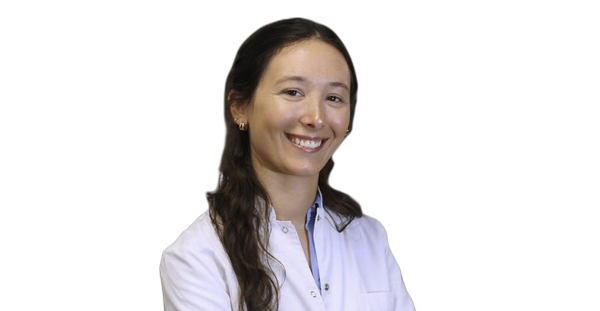
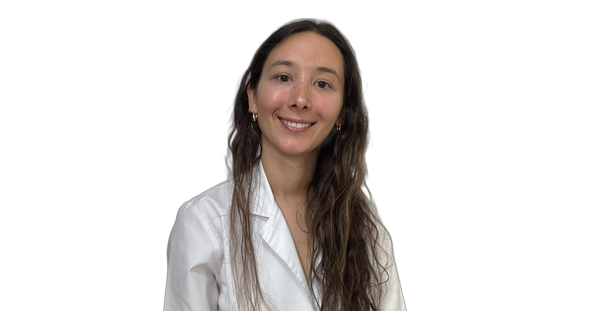
Linea rotativa 0351 570-7090 en todo el sitio (contacto, inicio, footers, notas y bios) + foto nueva Dra. Sudria + link a Google Maps bajo el mapa del inicio

Changed region(s): [[0.24, 0.0579, 0.69, 1.0]]

diff --git a/novedades/vacaciones-invierno-vista-de-los-chicos/index.html b/novedades/vacaciones-invierno-vista-de-los-chicos/index.html
@@ -163,6 +163,7 @@
     <footer class="footer"><div class="container footer-grid">
       <div><a class="brand footer-brand" href="../../index.html"><span class="brand-logo-frame"><img src="../../assets/ioc-logo-symbol.png" alt="" /></span><span class="brand-copy"><strong>Instituto Oftalmológico</strong><small>de Córdoba</small></span></a><p>Salud visual, estudios oftalmológicos y cirugía ocular en Nueva Córdoba.</p></div>
       <div><h2>Secciones</h2><a href="../../index.html">Inicio</a><a href="../../quienes-somos.html">Quiénes somos</a><a href="../../servicios.html">Servicios</a><a href="../../informacion.html">Información</a><a href="../../novedades.html">Novedades</a><a href="../../contacto.html">Contacto</a></div>
+      <div><h2>Contacto</h2><a href="https://wa.me/5493516662384" target="_blank" rel="noopener">WhatsApp</a><a href="https://www.instagram.com/ioc_oftalmologiacba/" target="_blank" rel="noopener">Instagram</a><a href="mailto:info@iocp.com.ar">info@iocp.com.ar</a><a href="tel:+543515707090">Tel. 0351 570-7090</a>
       <div><h2>Contacto</h2><a href="https://wa.me/5493516662384" target="_blank" rel="noopener">WhatsApp</a><a href="https://www.instagram.com/ioc_oftalmologiacba/" target="_blank" rel="noopener">Instagram</a><a href="mailto:info@iocp.com.ar">info@iocp.com.ar</a><a class="footer-review" href="https://search.google.com/local/writereview?placeid=ChIJY-UuEI6iMpQRd2V8UBE54po" target="_blank" rel="noopener">Reseñá en Google</a><span>Bv Chacabuco 879, Córdoba</span><span>7:30 – 19:30 hs · Lun a Vie</span><span>Guardia 24 hs: Sanatorio Allende</span></div>
     </div></footer>
     <a class="floating-whatsapp" href="https://wa.me/5493516662384?text=Hola%2C%20quiero%20coordinar%20un%20control%20oftalmol%C3%B3gico%20para%20mi%20hijo/a.%20Vengo%20de%20la%20nota%20de%20las%20vacaciones%20de%20invierno.%20Mi%20nombre%20es%20" data-whatsapp-direct="true" target="_blank" rel="noopener">Pedir turno</a>

diff --git a/novedades/ojo-seco-invierno/index.html b/novedades/ojo-seco-invierno/index.html
@@ -157,6 +157,7 @@
     <footer class="footer"><div class="container footer-grid">
       <div><a class="brand footer-brand" href="../../index.html"><span class="brand-logo-frame"><img src="../../assets/ioc-logo-symbol.png" alt="" /></span><span class="brand-copy"><strong>Instituto Oftalmológico</strong><small>de Córdoba</small></span></a><p>Salud visual, estudios oftalmológicos y cirugía ocular en Nueva Córdoba.</p></div>
       <div><h2>Secciones</h2><a href="../../index.html">Inicio</a><a href="../../quienes-somos.html">Quiénes somos</a><a href="../../servicios.html">Servicios</a><a href="../../informacion.html">Información</a><a href="../../novedades.html">Novedades</a><a href="../../contacto.html">Contacto</a></div>
+      <div><h2>Contacto</h2><a href="https://wa.me/5493516662384" target="_blank" rel="noopener">WhatsApp</a><a href="https://www.instagram.com/ioc_oftalmologiacba/" target="_blank" rel="noopener">Instagram</a><a href="mailto:info@iocp.com.ar">info@iocp.com.ar</a><a href="tel:+543515707090">Tel. 0351 570-7090</a>
       <div><h2>Contacto</h2><a href="https://wa.me/5493516662384" target="_blank" rel="noopener">WhatsApp</a><a href="https://www.instagram.com/ioc_oftalmologiacba/" target="_blank" rel="noopener">Instagram</a><a href="mailto:info@iocp.com.ar">info@iocp.com.ar</a><a class="footer-review" href="https://search.google.com/local/writereview?placeid=ChIJY-UuEI6iMpQRd2V8UBE54po" target="_blank" rel="noopener">Reseñá en Google</a><span>Bv Chacabuco 879, Córdoba</span><span>7:30 – 19:30 hs · Lun a Vie</span><span>Guardia 24 hs: Sanatorio Allende</span></div>
     </div></footer>
     <a class="floating-whatsapp" href="https://wa.me/5493516662384?text=Hola%2C%20quiero%20coordinar%20una%20consulta%20por%20ojo%20seco.%20Vengo%20de%20la%20nota%20del%20ojo%20seco%20en%20invierno.%20Mi%20nombre%20es%20" data-whatsapp-direct="true" target="_blank" rel="noopener">Pedir turno</a>

diff --git a/novedades/vuelta-a-clases-vista-de-los-chicos/index.html b/novedades/vuelta-a-clases-vista-de-los-chicos/index.html
@@ -161,6 +161,7 @@
     <footer class="footer"><div class="container footer-grid">
       <div><a class="brand footer-brand" href="../../index.html"><span class="brand-logo-frame"><img src="../../assets/ioc-logo-symbol.png" alt="" /></span><span class="brand-copy"><strong>Instituto Oftalmológico</strong><small>de Córdoba</small></span></a><p>Salud visual, estudios oftalmológicos y cirugía ocular en Nueva Córdoba.</p></div>
       <div><h2>Secciones</h2><a href="../../index.html">Inicio</a><a href="../../quienes-somos.html">Quiénes somos</a><a href="../../servicios.html">Servicios</a><a href="../../informacion.html">Información</a><a href="../../novedades.html">Novedades</a><a href="../../contacto.html">Contacto</a></div>
+      <div><h2>Contacto</h2><a href="https://wa.me/5493516662384" target="_blank" rel="noopener">WhatsApp</a><a href="https://www.instagram.com/ioc_oftalmologiacba/" target="_blank" rel="noopener">Instagram</a><a href="mailto:info@iocp.com.ar">info@iocp.com.ar</a><a href="tel:+543515707090">Tel. 0351 570-7090</a>
       <div><h2>Contacto</h2><a href="https://wa.me/5493516662384" target="_blank" rel="noopener">WhatsApp</a><a href="https://www.instagram.com/ioc_oftalmologiacba/" target="_blank" rel="noopener">Instagram</a><a href="mailto:info@iocp.com.ar">info@iocp.com.ar</a><a class="footer-review" href="https://search.google.com/local/writereview?placeid=ChIJY-UuEI6iMpQRd2V8UBE54po" target="_blank" rel="noopener">Reseñá en Google</a><span>Bv Chacabuco 879, Córdoba</span><span>7:30 – 19:30 hs · Lun a Vie</span><span>Guardia 24 hs: Sanatorio Allende</span></div>
     </div></footer>
     <a class="floating-whatsapp" href="https://wa.me/5493516662384?text=Hola%2C%20quiero%20pedir%20un%20turno%20de%20control%20visual%20para%20mi%20hijo/a%20por%20la%20vuelta%20a%20clases.%20Mi%20nombre%20es%20" data-whatsapp-direct="true" target="_blank" rel="noopener">Pedir turno</a>

diff --git a/equipo/acuna-sanchez-angel/index.html b/equipo/acuna-sanchez-angel/index.html
@@ -107,6 +107,7 @@
     <footer class="footer"><div class="container footer-grid">
       <div><a class="brand footer-brand" href="../../index.html"><span class="brand-logo-frame"><img src="../../assets/ioc-logo-symbol.png" alt="" /></span><span class="brand-copy"><strong>Instituto Oftalmológico</strong><small>de Córdoba</small></span></a><p>Salud visual, estudios oftalmológicos y cirugía ocular en Nueva Córdoba.</p></div>
       <div><h2>Secciones</h2><a href="../../index.html">Inicio</a><a href="../../quienes-somos.html">Quiénes somos</a><a href="../../servicios.html">Servicios</a><a href="../../informacion.html">Información</a><a href="../../novedades.html">Novedades</a><a href="../../contacto.html">Contacto</a></div>
+      <div><h2>Contacto</h2><a href="https://wa.me/5493516662384" target="_blank" rel="noopener">WhatsApp</a><a href="https://www.instagram.com/ioc_oftalmologiacba/" target="_blank" rel="noopener">Instagram</a><a href="mailto:info@iocp.com.ar">info@iocp.com.ar</a><a href="tel:+543515707090">Tel. 0351 570-7090</a>
       <div><h2>Contacto</h2><a href="https://wa.me/5493516662384" target="_blank" rel="noopener">WhatsApp</a><a href="https://www.instagram.com/ioc_oftalmologiacba/" target="_blank" rel="noopener">Instagram</a><a href="mailto:info@iocp.com.ar">info@iocp.com.ar</a><a class="footer-review" href="https://search.google.com/local/writereview?placeid=ChIJY-UuEI6iMpQRd2V8UBE54po" target="_blank" rel="noopener">Reseñá en Google</a><span>Bv Chacabuco 879, Córdoba</span><span>7:30 – 19:30 hs · Lun a Vie</span><span>Guardia 24 hs: Sanatorio Allende</span></div>
     </div></footer>
     <a class="floating-whatsapp" href="https://wa.me/5493516662384?text=Hola%2C%20quiero%20pedir%20un%20turno%20con%20Dr.%20Acu%C3%B1a%20S%C3%A1nchez%20%C3%81ngel.%20Mi%20nombre%20es%20" data-whatsapp-direct="true" target="_blank" rel="noopener">Pedir turno</a>

diff --git a/index.html b/index.html
@@ -417,12 +417,8 @@
               <a class="home-contact-card" href="https://www.instagram.com/ioc_oftalmologiacba/" target="_blank" rel="noopener">
                 <span>Instagram</span><strong>@ioc_oftalmologiacba</strong>
               </a>
-              <a
-                class="home-contact-card"
-                href="https://www.google.com/maps/search/?api=1&query=Bv%20Chacabuco%20879%20Cordoba%20Argentina"
-                target="_blank"
-                rel="noopener"
-              ><span>Ubicación</span><strong>Cómo llegar</strong></a>
+              <a class="home-contact-card" href="tel:+543515707090"
+              ><span>Teléfono</span><strong>0351 570-7090</strong></a>
               <a class="home-contact-card" href="mailto:info@iocp.com.ar">
                 <span>Email</span><strong>info@iocp.com.ar</strong>
               </a>
@@ -438,6 +434,7 @@
               referrerpolicy="no-referrer-when-downgrade"
               src="https://www.google.com/maps?q=Bv%20Chacabuco%20879%2C%20Cordoba%2C%20Argentina&output=embed">
             </iframe>
+            <a class="map-open-link" href="https://www.google.com/maps/search/?api=1&query=Bv%20Chacabuco%20879%20Cordoba%20Argentina" target="_blank" rel="noopener">Abrir en Google Maps — Cómo llegar →</a>
           </div>
         </div>
       </section>
@@ -470,6 +467,7 @@
           <h2>Contacto</h2>
           <a href="https://wa.me/5493516662384" target="_blank" rel="noopener">WhatsApp</a>
           <a href="mailto:info@iocp.com.ar">info@iocp.com.ar</a>
+          <a href="tel:+543515707090">Tel. 0351 570-7090</a>
           <a class="footer-review" href="https://search.google.com/local/writereview?placeid=ChIJY-UuEI6iMpQRd2V8UBE54po" target="_blank" rel="noopener">Reseñá en Google</a>
           <span>Bv Chacabuco 879, Córdoba</span>
           <span>7:30 – 19:30 hs · Lun a Vie</span>

diff --git a/equipo/sudria-maria-pilar/index.html b/equipo/sudria-maria-pilar/index.html
@@ -107,6 +107,7 @@
     <footer class="footer"><div class="container footer-grid">
       <div><a class="brand footer-brand" href="../../index.html"><span class="brand-logo-frame"><img src="../../assets/ioc-logo-symbol.png" alt="" /></span><span class="brand-copy"><strong>Instituto Oftalmológico</strong><small>de Córdoba</small></span></a><p>Salud visual, estudios oftalmológicos y cirugía ocular en Nueva Córdoba.</p></div>
       <div><h2>Secciones</h2><a href="../../index.html">Inicio</a><a href="../../quienes-somos.html">Quiénes somos</a><a href="../../servicios.html">Servicios</a><a href="../../informacion.html">Información</a><a href="../../novedades.html">Novedades</a><a href="../../contacto.html">Contacto</a></div>
+      <div><h2>Contacto</h2><a href="https://wa.me/5493516662384" target="_blank" rel="noopener">WhatsApp</a><a href="https://www.instagram.com/ioc_oftalmologiacba/" target="_blank" rel="noopener">Instagram</a><a href="mailto:info@iocp.com.ar">info@iocp.com.ar</a><a href="tel:+543515707090">Tel. 0351 570-7090</a>
       <div><h2>Contacto</h2><a href="https://wa.me/5493516662384" target="_blank" rel="noopener">WhatsApp</a><a href="https://www.instagram.com/ioc_oftalmologiacba/" target="_blank" rel="noopener">Instagram</a><a href="mailto:info@iocp.com.ar">info@iocp.com.ar</a><a class="footer-review" href="https://search.google.com/local/writereview?placeid=ChIJY-UuEI6iMpQRd2V8UBE54po" target="_blank" rel="noopener">Reseñá en Google</a><span>Bv Chacabuco 879, Córdoba</span><span>7:30 – 19:30 hs · Lun a Vie</span><span>Guardia 24 hs: Sanatorio Allende</span></div>
     </div></footer>
     <a class="floating-whatsapp" href="https://wa.me/5493516662384?text=Hola%2C%20quiero%20pedir%20un%20turno%20con%20Dra.%20Sudri%C3%A1%20Mar%C3%ADa%20Pilar.%20Mi%20nombre%20es%20" data-whatsapp-direct="true" target="_blank" rel="noopener">Pedir turno</a>

diff --git a/equipo/montanaro-maria-paula/index.html b/equipo/montanaro-maria-paula/index.html
@@ -107,6 +107,7 @@
     <footer class="footer"><div class="container footer-grid">
       <div><a class="brand footer-brand" href="../../index.html"><span class="brand-logo-frame"><img src="../../assets/ioc-logo-symbol.png" alt="" /></span><span class="brand-copy"><strong>Instituto Oftalmológico</strong><small>de Córdoba</small></span></a><p>Salud visual, estudios oftalmológicos y cirugía ocular en Nueva Córdoba.</p></div>
       <div><h2>Secciones</h2><a href="../../index.html">Inicio</a><a href="../../quienes-somos.html">Quiénes somos</a><a href="../../servicios.html">Servicios</a><a href="../../informacion.html">Información</a><a href="../../novedades.html">Novedades</a><a href="../../contacto.html">Contacto</a></div>
+      <div><h2>Contacto</h2><a href="https://wa.me/5493516662384" target="_blank" rel="noopener">WhatsApp</a><a href="https://www.instagram.com/ioc_oftalmologiacba/" target="_blank" rel="noopener">Instagram</a><a href="mailto:info@iocp.com.ar">info@iocp.com.ar</a><a href="tel:+543515707090">Tel. 0351 570-7090</a>
       <div><h2>Contacto</h2><a href="https://wa.me/5493516662384" target="_blank" rel="noopener">WhatsApp</a><a href="https://www.instagram.com/ioc_oftalmologiacba/" target="_blank" rel="noopener">Instagram</a><a href="mailto:info@iocp.com.ar">info@iocp.com.ar</a><a class="footer-review" href="https://search.google.com/local/writereview?placeid=ChIJY-UuEI6iMpQRd2V8UBE54po" target="_blank" rel="noopener">Reseñá en Google</a><span>Bv Chacabuco 879, Córdoba</span><span>7:30 – 19:30 hs · Lun a Vie</span><span>Guardia 24 hs: Sanatorio Allende</span></div>
     </div></footer>
     <a class="floating-whatsapp" href="https://wa.me/5493516662384?text=Hola%2C%20quiero%20pedir%20un%20turno%20con%20Dra.%20Montanaro%20Mar%C3%ADa%20Paula.%20Mi%20nombre%20es%20" data-whatsapp-direct="true" target="_blank" rel="noopener">Pedir turno</a>

diff --git a/equipo/giussano-areco-santiago/index.html b/equipo/giussano-areco-santiago/index.html
@@ -107,6 +107,7 @@
     <footer class="footer"><div class="container footer-grid">
       <div><a class="brand footer-brand" href="../../index.html"><span class="brand-logo-frame"><img src="../../assets/ioc-logo-symbol.png" alt="" /></span><span class="brand-copy"><strong>Instituto Oftalmológico</strong><small>de Córdoba</small></span></a><p>Salud visual, estudios oftalmológicos y cirugía ocular en Nueva Córdoba.</p></div>
       <div><h2>Secciones</h2><a href="../../index.html">Inicio</a><a href="../../quienes-somos.html">Quiénes somos</a><a href="../../servicios.html">Servicios</a><a href="../../informacion.html">Información</a><a href="../../novedades.html">Novedades</a><a href="../../contacto.html">Contacto</a></div>
+      <div><h2>Contacto</h2><a href="https://wa.me/5493516662384" target="_blank" rel="noopener">WhatsApp</a><a href="https://www.instagram.com/ioc_oftalmologiacba/" target="_blank" rel="noopener">Instagram</a><a href="mailto:info@iocp.com.ar">info@iocp.com.ar</a><a href="tel:+543515707090">Tel. 0351 570-7090</a>
       <div><h2>Contacto</h2><a href="https://wa.me/5493516662384" target="_blank" rel="noopener">WhatsApp</a><a href="https://www.instagram.com/ioc_oftalmologiacba/" target="_blank" rel="noopener">Instagram</a><a href="mailto:info@iocp.com.ar">info@iocp.com.ar</a><a class="footer-review" href="https://search.google.com/local/writereview?placeid=ChIJY-UuEI6iMpQRd2V8UBE54po" target="_blank" rel="noopener">Reseñá en Google</a><span>Bv Chacabuco 879, Córdoba</span><span>7:30 – 19:30 hs · Lun a Vie</span><span>Guardia 24 hs: Sanatorio Allende</span></div>
     </div></footer>
     <a class="floating-whatsapp" href="https://wa.me/5493516662384?text=Hola%2C%20quiero%20pedir%20un%20turno%20con%20Dr.%20Giussano%20Areco%20Santiago.%20Mi%20nombre%20es%20" data-whatsapp-direct="true" target="_blank" rel="noopener">Pedir turno</a>

diff --git a/novedades/glaucoma-control-anual/index.html b/novedades/glaucoma-control-anual/index.html
@@ -160,6 +160,7 @@
     <footer class="footer"><div class="container footer-grid">
       <div><a class="brand footer-brand" href="../../index.html"><span class="brand-logo-frame"><img src="../../assets/ioc-logo-symbol.png" alt="" /></span><span class="brand-copy"><strong>Instituto Oftalmológico</strong><small>de Córdoba</small></span></a><p>Salud visual, estudios oftalmológicos y cirugía ocular en Nueva Córdoba.</p></div>
       <div><h2>Secciones</h2><a href="../../index.html">Inicio</a><a href="../../quienes-somos.html">Quiénes somos</a><a href="../../servicios.html">Servicios</a><a href="../../informacion.html">Información</a><a href="../../novedades.html">Novedades</a><a href="../../contacto.html">Contacto</a></div>
+      <div><h2>Contacto</h2><a href="https://wa.me/5493516662384" target="_blank" rel="noopener">WhatsApp</a><a href="https://www.instagram.com/ioc_oftalmologiacba/" target="_blank" rel="noopener">Instagram</a><a href="mailto:info@iocp.com.ar">info@iocp.com.ar</a><a href="tel:+543515707090">Tel. 0351 570-7090</a>
       <div><h2>Contacto</h2><a href="https://wa.me/5493516662384" target="_blank" rel="noopener">WhatsApp</a><a href="https://www.instagram.com/ioc_oftalmologiacba/" target="_blank" rel="noopener">Instagram</a><a href="mailto:info@iocp.com.ar">info@iocp.com.ar</a><a class="footer-review" href="https://search.google.com/local/writereview?placeid=ChIJY-UuEI6iMpQRd2V8UBE54po" target="_blank" rel="noopener">Reseñá en Google</a><span>Bv Chacabuco 879, Córdoba</span><span>7:30 – 19:30 hs · Lun a Vie</span><span>Guardia 24 hs: Sanatorio Allende</span></div>
     </div></footer>
     <a class="floating-whatsapp" href="https://wa.me/5493516662384?text=Hola%2C%20quiero%20pedir%20un%20turno%20para%20un%20control%20de%20glaucoma.%20Mi%20nombre%20es%20" data-whatsapp-direct="true" target="_blank" rel="noopener">Pedir turno</a>

diff --git a/equipo/avila-mercedes/index.html b/equipo/avila-mercedes/index.html
@@ -107,6 +107,7 @@
     <footer class="footer"><div class="container footer-grid">
       <div><a class="brand footer-brand" href="../../index.html"><span class="brand-logo-frame"><img src="../../assets/ioc-logo-symbol.png" alt="" /></span><span class="brand-copy"><strong>Instituto Oftalmológico</strong><small>de Córdoba</small></span></a><p>Salud visual, estudios oftalmológicos y cirugía ocular en Nueva Córdoba.</p></div>
       <div><h2>Secciones</h2><a href="../../index.html">Inicio</a><a href="../../quienes-somos.html">Quiénes somos</a><a href="../../servicios.html">Servicios</a><a href="../../informacion.html">Información</a><a href="../../novedades.html">Novedades</a><a href="../../contacto.html">Contacto</a></div>
+      <div><h2>Contacto</h2><a href="https://wa.me/5493516662384" target="_blank" rel="noopener">WhatsApp</a><a href="https://www.instagram.com/ioc_oftalmologiacba/" target="_blank" rel="noopener">Instagram</a><a href="mailto:info@iocp.com.ar">info@iocp.com.ar</a><a href="tel:+543515707090">Tel. 0351 570-7090</a>
       <div><h2>Contacto</h2><a href="https://wa.me/5493516662384" target="_blank" rel="noopener">WhatsApp</a><a href="https://www.instagram.com/ioc_oftalmologiacba/" target="_blank" rel="noopener">Instagram</a><a href="mailto:info@iocp.com.ar">info@iocp.com.ar</a><a class="footer-review" href="https://search.google.com/local/writereview?placeid=ChIJY-UuEI6iMpQRd2V8UBE54po" target="_blank" rel="noopener">Reseñá en Google</a><span>Bv Chacabuco 879, Córdoba</span><span>7:30 – 19:30 hs · Lun a Vie</span><span>Guardia 24 hs: Sanatorio Allende</span></div>
     </div></footer>
     <a class="floating-whatsapp" href="https://wa.me/5493516662384?text=Hola%2C%20quiero%20pedir%20un%20turno%20con%20Dra.%20%C3%81vila%20Mercedes.%20Mi%20nombre%20es%20" data-whatsapp-direct="true" target="_blank" rel="noopener">Pedir turno</a>

diff --git a/equipo/sanchez-walter/index.html b/equipo/sanchez-walter/index.html
@@ -107,6 +107,7 @@
     <footer class="footer"><div class="container footer-grid">
       <div><a class="brand footer-brand" href="../../index.html"><span class="brand-logo-frame"><img src="../../assets/ioc-logo-symbol.png" alt="" /></span><span class="brand-copy"><strong>Instituto Oftalmológico</strong><small>de Córdoba</small></span></a><p>Salud visual, estudios oftalmológicos y cirugía ocular en Nueva Córdoba.</p></div>
       <div><h2>Secciones</h2><a href="../../index.html">Inicio</a><a href="../../quienes-somos.html">Quiénes somos</a><a href="../../servicios.html">Servicios</a><a href="../../informacion.html">Información</a><a href="../../novedades.html">Novedades</a><a href="../../contacto.html">Contacto</a></div>
+      <div><h2>Contacto</h2><a href="https://wa.me/5493516662384" target="_blank" rel="noopener">WhatsApp</a><a href="https://www.instagram.com/ioc_oftalmologiacba/" target="_blank" rel="noopener">Instagram</a><a href="mailto:info@iocp.com.ar">info@iocp.com.ar</a><a href="tel:+543515707090">Tel. 0351 570-7090</a>
       <div><h2>Contacto</h2><a href="https://wa.me/5493516662384" target="_blank" rel="noopener">WhatsApp</a><a href="https://www.instagram.com/ioc_oftalmologiacba/" target="_blank" rel="noopener">Instagram</a><a href="mailto:info@iocp.com.ar">info@iocp.com.ar</a><a class="footer-review" href="https://search.google.com/local/writereview?placeid=ChIJY-UuEI6iMpQRd2V8UBE54po" target="_blank" rel="noopener">Reseñá en Google</a><span>Bv Chacabuco 879, Córdoba</span><span>7:30 – 19:30 hs · Lun a Vie</span><span>Guardia 24 hs: Sanatorio Allende</span></div>
     </div></footer>
     <a class="floating-whatsapp" href="https://wa.me/5493516662384?text=Hola%2C%20quiero%20pedir%20un%20turno%20con%20Dr.%20S%C3%A1nchez%20Walter.%20Mi%20nombre%20es%20" data-whatsapp-direct="true" target="_blank" rel="noopener">Pedir turno</a>

diff --git a/equipo/baintein-silvina/index.html b/equipo/baintein-silvina/index.html
@@ -107,6 +107,7 @@
     <footer class="footer"><div class="container footer-grid">
       <div><a class="brand footer-brand" href="../../index.html"><span class="brand-logo-frame"><img src="../../assets/ioc-logo-symbol.png" alt="" /></span><span class="brand-copy"><strong>Instituto Oftalmológico</strong><small>de Córdoba</small></span></a><p>Salud visual, estudios oftalmológicos y cirugía ocular en Nueva Córdoba.</p></div>
       <div><h2>Secciones</h2><a href="../../index.html">Inicio</a><a href="../../quienes-somos.html">Quiénes somos</a><a href="../../servicios.html">Servicios</a><a href="../../informacion.html">Información</a><a href="../../novedades.html">Novedades</a><a href="../../contacto.html">Contacto</a></div>
+      <div><h2>Contacto</h2><a href="https://wa.me/5493516662384" target="_blank" rel="noopener">WhatsApp</a><a href="https://www.instagram.com/ioc_oftalmologiacba/" target="_blank" rel="noopener">Instagram</a><a href="mailto:info@iocp.com.ar">info@iocp.com.ar</a><a href="tel:+543515707090">Tel. 0351 570-7090</a>
       <div><h2>Contacto</h2><a href="https://wa.me/5493516662384" target="_blank" rel="noopener">WhatsApp</a><a href="https://www.instagram.com/ioc_oftalmologiacba/" target="_blank" rel="noopener">Instagram</a><a href="mailto:info@iocp.com.ar">info@iocp.com.ar</a><a class="footer-review" href="https://search.google.com/local/writereview?placeid=ChIJY-UuEI6iMpQRd2V8UBE54po" target="_blank" rel="noopener">Reseñá en Google</a><span>Bv Chacabuco 879, Córdoba</span><span>7:30 – 19:30 hs · Lun a Vie</span><span>Guardia 24 hs: Sanatorio Allende</span></div>
     </div></footer>
     <a class="floating-whatsapp" href="https://wa.me/5493516662384?text=Hola%2C%20quiero%20pedir%20un%20turno%20con%20Dra.%20Baintein%20Silvina.%20Mi%20nombre%20es%20" data-whatsapp-direct="true" target="_blank" rel="noopener">Pedir turno</a>
